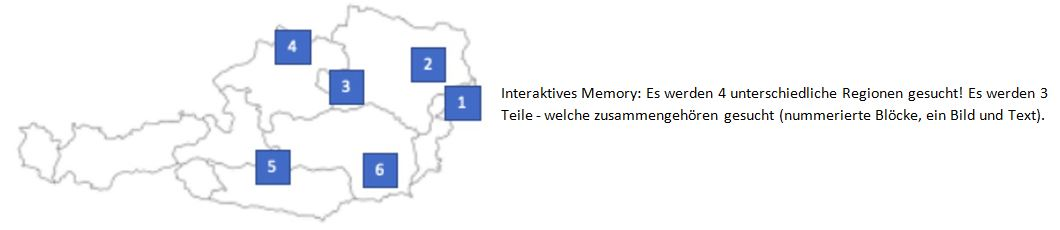
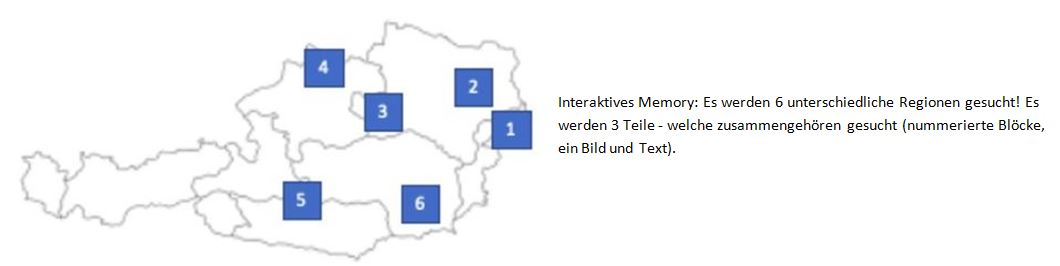
3.2 Interaktiv landf update

Changed region(s): [[0.0, 0.0, 0.9962, 0.9739]]

diff --git a/htlmfiles/3_2_Landflucht - Interaktiv.html b/htlmfiles/3_2_Landflucht - Interaktiv.html
@@ -9,33 +9,42 @@
     <link rel='stylesheet' href='https://ajax.googleapis.com/ajax/libs/jqueryui/1.11.2/themes/smoothness/jquery-ui.css'>
     <link rel='stylesheet' href='https://ontrack-media.net/english2/css/engII_main.css'><link rel="stylesheet" href="../css/landfluchtinteraktiv.css">
 </head>
-
 <body>
-<br>
 <nav class="navbar navbar-expand-sm justify-content-center"   >
     <a class="navbar-brand" href="../index.html"><img src="../images/home.png" alt="(Home) Lebens und Wirtschaftsraum Erde" style="width:40px;"></a>
     <a class="col" style="background-color: white; "><h2> Lebens und Wirtschaftsraum Erde</h2></a>
 </nav>
-
 <div class="container">
     <a class="list-group-item list-group"><h2>3.2.Landflucht _Interaktiv</h2> </a>
-    <a class="list-group-item list-group"> <br>
-<p>
-    Städte sind bis heute einem kontinuierlichen Wandel unterzogen. Die Einwohnerzahlen vieler Städte steigen konstant an. Dies hängt von verschiedenen Faktoren ab,
+    <a class="list-group-item list-group">
+
+        <p>Städte sind bis heute einem kontinuierlichen Wandel unterzogen. Die Einwohnerzahlen vieler Städte steigen konstant an. Dies hängt von verschiedenen Faktoren ab,
     einer davon ist die sogenannte <b>Landflucht</b>. Landflucht beschreibt den Prozess davon, dass Menschen immer häufiger ihre ländlichen Wurzeln zurücklassen und in die Städte ziehen.
-    <br><br>
-    <b> Aufgabe: </b>Ziehe die Gründe in die richtige Push/Pull Kreise!  <b>Hinweis:  </b> Oben steht die Faktorart und unterbei ein kleiner Hinweis.
+    Gründe für das Verlassen eines Gebiets werden als Push-Faktoren bezeichnet. Im Gegenzug werden Gründe dafür in ein anderes Gebiet zu ziehen als Pull-Faktoren bezeichnet.
+    <br>
+            <b><u>Beispiele für Push-faktoren: </u> </b><br>
+    <b>Sozio-ökonomische Gründe: </b> geringes Einkommen, Armut, Hunger, Landknappheit, … <br>
+    <b>Politische Gründe: </b> Krieg, Diskriminierungen, Verfolgung, … <br>
+    <b>Ökologische Gründe: </b> Umweltkatastrophen, Knappheit an Naturressourcen <br>
+
+                <b><u>Beispiele für Pull-faktoren:</u> </b> <br>
+
+    <b>Gesellschaftliche Gründe:</b>  Sicherheit, Gesundheitssystem, Bildung, …  <br>
+    <b>Politische Gründe: </b> Frieden, persönliche Freiheit, Familienzusammenführung, … <br>
+
+    <br>
+    <b> Aufgabe: </b>Ziehe die Gründe in die richtige Push/Pull Kreise!  <b>Hinweis:  </b> Oben steht die Faktorart darunter ein kleiner Hinweis.
 </p>
 
 <div id="main">
 
+
     <div id="left_side">
         <div id="object1"><div class="numberPad">Push Medizin</div></div>
         <div id="object2"><div class="numberPad">Pull Frieden</div></div>
-        <div id="object3"><div class="numberPad">Push Bildung</div></div>
+        <div id="object3"><div class="numberPad">Push Umwelt</div></div>
         <div id="object4"><div class="numberPad">Push Religion</div></div>
         <div id="object5"><div class="numberPad">Pull <br> Krieg</div></div>
-        <div id="object6"><div class="numberPad">Push Umwelt</div></div>
 
     </div><!--end left-->
 
@@ -45,17 +54,15 @@
         <div id="target3"></div>
         <div id="target4"></div>
         <div id="target5"></div>
-        <div id="target6"></div>
 
     </div><!--end middle-->
 
     <div id="right_side">
         <div class="p1">Eine Familie wurde auf Grund ihrer Religion diskriminiert und verfolgt.</div>
-        <div class="p2">Ein Krieg bricht aus. Viele Leute fürcheten um ihr Leben.</div>
+        <div class="p2">Ein Krieg bricht aus. Viele Leute fürchten um ihr Leben.</div>
         <div class="p3">Ein krankes Kind benötigt lebensrettende medizinische Maßnahmen, die nur in großen Städten zur Verfügung stehen.</div>
         <div class="p4">Ein starkes Erdbeben zerstörte viele Häuser und viele Familien verlieren ihr Zuhause.</div>
         <div class="p5">Ein Land erfährt eine lange Friedensperiode.</div>
-        <div class="p6">Ein Vater wünscht sich eine bessere Auswaahl an Bildungsmöglichkeiten für seine Kinder.</div>
 
     </div><!--end right-->
 
@@ -73,17 +80,11 @@
         <div class="completeObject"><div class="numberPad">3</div></div>
         <div class="completeObject"><div class="numberPad">4</div></div>
         <div class="completeObject"><div class="numberPad">5</div></div>
-        <div class="completeObject"><div class="numberPad">6</div></div>
 
     </div><!--end left-->
 
     <div id="middle_side">
-        <div class="p1">Read the prompt.</div>
-        <div class="p2">Underline crucial words in the prompt.</div>
-        <div class="p3">Read the essay and underline important sentences and phrases.</div>
-        <div class="p4">Decide on your position in response to the essay<br>and write your thesis statement.</div>
-        <div class="p5">Select evidence from the text of the essay to support your thesis.</div>
-        <div class="p6">Make a cluster or an outline of this is helpful.</div>
+
 
     </div><!--end right-->
 

diff --git a/js/landfluchtinteraktiv.js b/js/landfluchtinteraktiv.js
@@ -1,7 +1,7 @@
 // Principe and Code snippets(https://codepen.io/IPSI/full/cgDbu)  by Institute for Public School Initiatives (https://codepen.io/IPSI)
 
-var objArray = ['#object1', '#object2', '#object3', '#object4', '#object5', '#object6'];
-var targArray = ['#target1', '#target2', '#target3', '#target4', '#target5', '#target6'];
+var objArray = ['#object1', '#object2', '#object3', '#object4', '#object5'];
+var targArray = ['#target1', '#target2', '#target3', '#target4', '#target5'];
 var startDrag = new String;
 var resetter = 0;
 //var draggable = ui.draggable;
@@ -15,7 +15,7 @@ var j = jQuery.noConflict();
 j(document).ready(function()
 {
 //draggin
-    j('#object1, #object2, #object3, #object4, #object5, #object6').draggable
+    j('#object1, #object2, #object3, #object4, #object5').draggable
     ({
         start: function(event,ui) { startDrag = ui.position; },
         containment: '#main',
@@ -42,7 +42,7 @@ j(document).ready(function()
 //         <div class="p3">Push-Ein krankes Kind benötigt lebensrettende medizinische Maßnahmen, die nur in großen Städten zur Verfügung stehen.</div>
 //         <div class="p4">Push-Ein starkes Erdbeben zerstörte viele Häuser und viele Familien verlieren ihr Zuhause.</div>
 //         <div class="p5">Pull- Ein Land erfährt eine lange Friedensperiode.</div>
-//         <div class="p6">Push-Ein Vater wünscht sich eine bessere Auswaahl an Bildungsmöglichkeiten für seine Kinder.</div>
+
     j('#target1').droppable
     ({
         drop: right,
@@ -62,17 +62,12 @@ j(document).ready(function()
     j('#target4').droppable
     ({
         drop: right,
-        accept: '#object6'
+        accept: '#object3'
     });
     j('#target5').droppable
     ({
         drop: right,
         accept: '#object2'
-    });
-    j('#target6').droppable
-    ({
-        drop: right,
-        accept: '#object3'
     });
 
 });
@@ -93,7 +88,7 @@ function right(event, ui)
     draggable.css('background-color','#416127');
 
     resetter++;
-    if (resetter == 6)
+    if (resetter == 5)
     {
         j('#feedback').html('<span class="greentext">Super alles richtig zugewiesen! <a href="../htlmfiles/3_2_Landflucht%20-%20Interaktiv.html">Neustart!</a></span>');
     }
